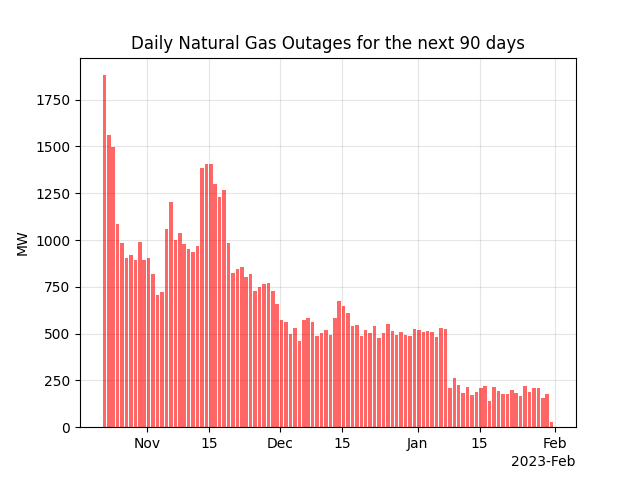
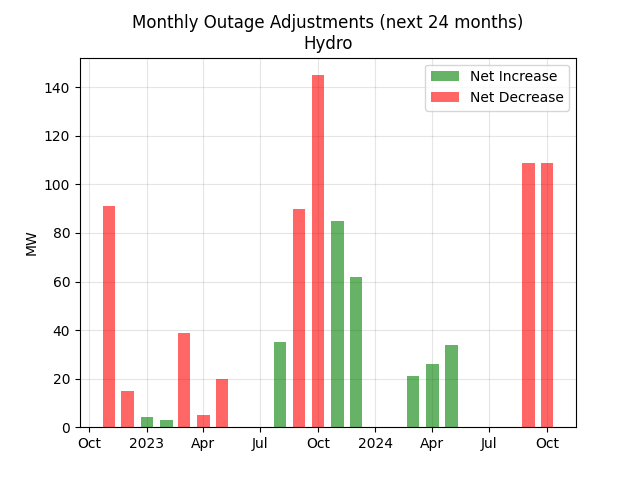
adjusted alert charts

diff --git a/AB_Power.py b/AB_Power.py
@@ -27,6 +27,32 @@ def hideMenu():
             """
     st.markdown(hide_menu_style, unsafe_allow_html=True)
 
+def launchDataManager():
+    url = 'https://ab-power-data-manager.streamlitapp.com/'
+    st.markdown(f'''
+    <a href={url}>
+        <button style=
+            "background-color:#58D68D;
+            border-radius: 6px;
+            -webkit-border-radius: 6px;
+            background-position: 9px 0px;
+            background-repeat: no-repeat;
+            border: solid 1px Black;
+            border-radius: 6px;
+            line-height: 18px;
+            overflow: hidden;
+            font-size:24px;
+            font-weight: bold;
+            color: Black;
+            text-align: center;
+            padding: 15px 10px;"
+            >
+        LAUNCH DATA MANAGER
+        </button>
+    </a>
+    ''',
+    unsafe_allow_html=True)
+
 @st.experimental_singleton(suppress_st_warning=True)
 def firestore_db_instance():
     try:
@@ -347,6 +373,10 @@ theme = {'Biomass & Other':'#1f77b4',
         '7-Day Wind Forecast':'#3f3f3f'}
 cutoff = 100
 hideMenu()
+
+with st.sidebar:
+    st.caption('Click below to launch the Alberta Power Data Manager:')
+    launchDataManager()
 
 history_df = read_firestore_history(db)
 if max(history_df['timeStamp']) < datetime.now(tz)-relativedelta(days=1,hour=23,minute=55,second=0,microsecond=0):

diff --git a/AB_Power_data_manager.py b/AB_Power_data_manager.py
@@ -148,16 +148,16 @@ def alerts(outageTable, diff_df):
             ax.bar(x,y, color='green', alpha=0.6, align='center')
             ax.bar(x,y2, color='red', alpha=0.6, align='center')
             if fuelType == 'Intertie':
-                ax.set_title(f"Daily {fuelType} Outages for the next year")
+                ax.set_title(f'Daily Outage Adjustments (next 12 months)\n{fuelType}')
             else:
-                ax.set_title(f"Daily {fuelType} Outages for the next 90 days")
+                ax.set_title(f'Daily Outage Adjustments (next 3 months)\n{fuelType}')
         elif outageTable == 'monthlyOutages':
             ax.bar(x,y, color='green', width=20, alpha=0.6, align='center')
             ax.bar(x,y2, color='red', width=20, alpha=0.6, align='center')
-            ax.set_title(f"Monthly {fuelType} Outages for the next year")
+            ax.set_title(f'Monthly Outage Adjustments (next 24 months)\n{fuelType}')
         ax.set_ylabel('MW')
+        ax.legend(labels=['Net Increase','Net Decrease'])
         plt.savefig('outages.png',facecolor='white')
-        #st.pyplot(plt)
 
     def text_alert():
         from_email = st.secrets['email_address']
